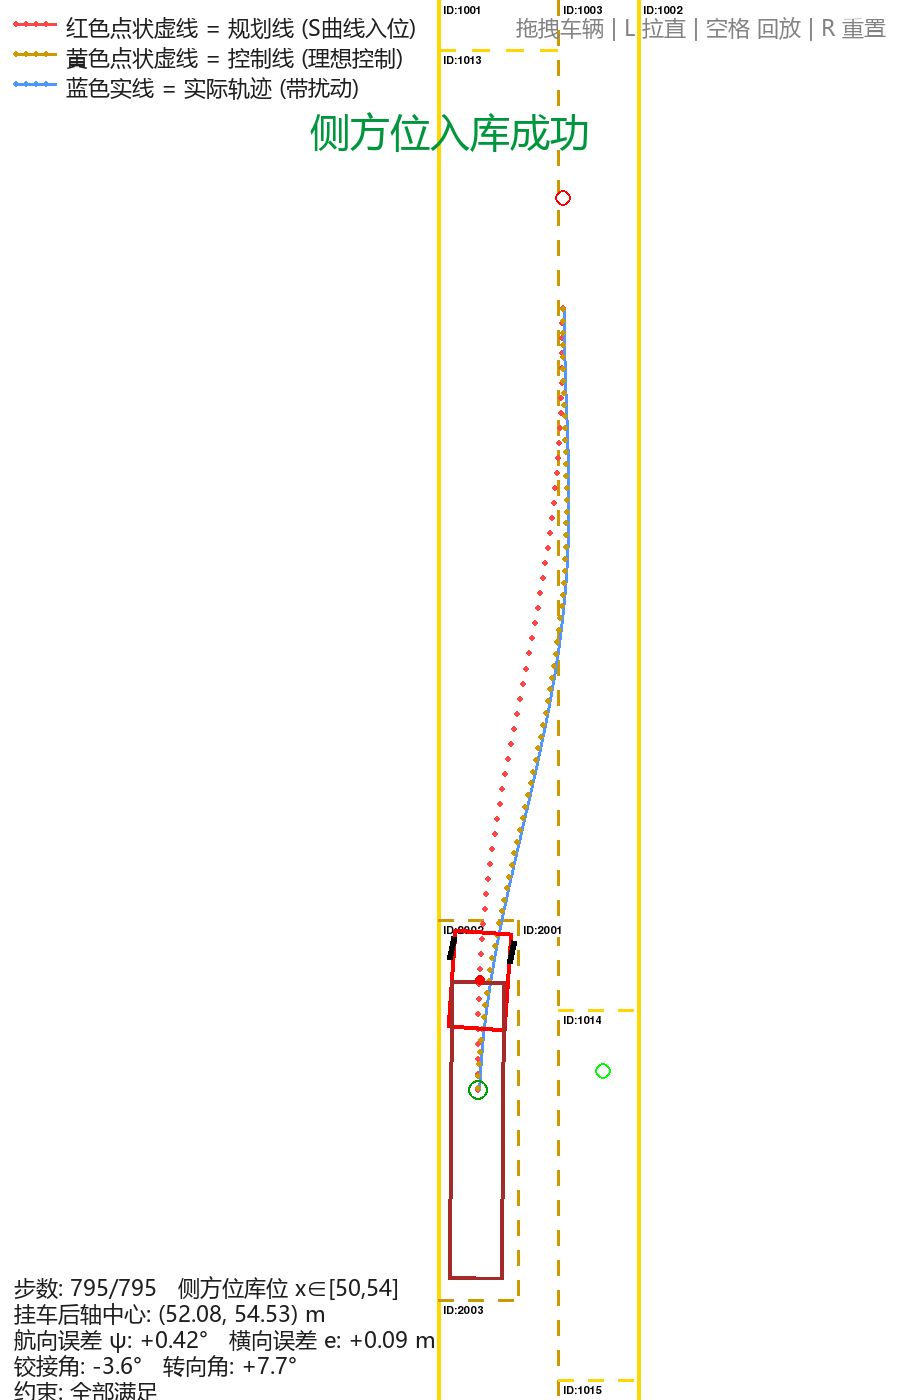
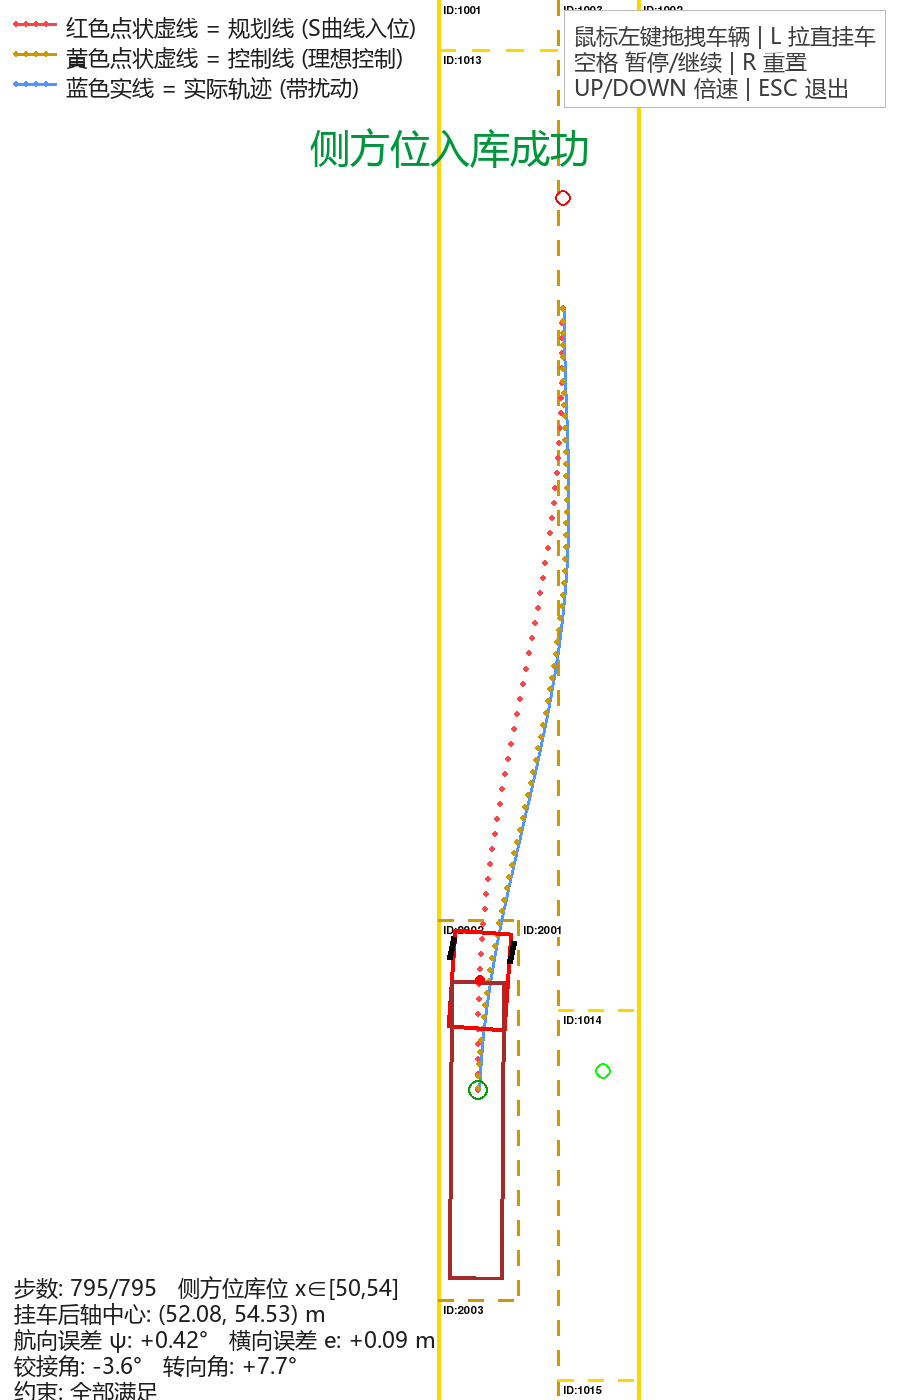
窗口 UI: 常驻快捷键说明 + Makefile 一键启动
- 右上角常驻 3 行快捷键说明 (浅底框, 不遮挡场景)
- 手动位姿/完成横幅下移, 避免与说明重叠
- Makefile: run / run-back / headless / test 四个入口

Changed region(s): [[0.3422, 0.0, 0.9956, 0.1229]]

diff --git a/another_solve/parking_three_lines.py b/another_solve/parking_three_lines.py
@@ -291,6 +291,28 @@ def point_on_truck(truck, wx, wy):
                    tr_len / 2 + 0.3, truck.trailerWidth / 2 + 0.3)
 
 
+HELP_LINES = (
+    "鼠标左键拖拽车辆 | L 拉直挂车",
+    "空格 暂停/继续 | R 重置",
+    "UP/DOWN 倍速 | ESC 退出",
+)
+
+
+def draw_help(screen, font_small, view_w, view_h):
+    """右上角常驻快捷键说明 (浅底框, 保证文字不被场景标线干扰)"""
+    surfs = [font_small.render(t, True, (60, 60, 60)) for t in HELP_LINES]
+    pad, lh = 10, 26
+    w = max(s.get_width() for s in surfs) + 2 * pad
+    h = lh * len(surfs) + 2 * pad
+    x, y = view_w - w - 14, 10
+    box = pygame.Surface((w, h), pygame.SRCALPHA)
+    box.fill((255, 255, 255, 250))
+    pygame.draw.rect(box, (185, 185, 185), box.get_rect(), 1)
+    screen.blit(box, (x, y))
+    for i, surf in enumerate(surfs):
+        screen.blit(surf, (x + pad, y + pad + i * lh))
+
+
 WORLD_W_PX = int(80 * SCALE)    # 世界画布: x 0..80m
 WORLD_H_PX = int(80 * SCALE)    # y 0..80m
 
@@ -374,18 +396,17 @@ def render_frame(screen, runs, idx, road, font_small, font_big, override=None, c
         screen.blit(surf, (14, view_h - 24 - (len(lines) - 1 - i) * 26))
 
     # 操作提示 (右上角)
-    hint = font_small.render("拖拽车辆 | L 拉直 | 空格 回放 | R 重置", True, (130, 130, 130))
-    screen.blit(hint, (view_w - hint.get_width() - 14, 12))
+    draw_help(screen, font_small, view_w, view_h)
 
     if manual:
         surf = font_small.render("手动位姿 (空格继续回放 / R 重置)", True, (70, 90, 170))
-        screen.blit(surf, (view_w // 2 - surf.get_width() // 2, 104))
+        screen.blit(surf, (view_w // 2 - surf.get_width() // 2, 120))
     elif done:
         status = "入库成功" if runs['actual']['success'] else "未成功停入"
         color = (0, 150, 60) if runs['actual']['success'] else (
             (190, 130, 0) if not cur_bad else (220, 40, 40))
         surf = font_big.render(status, True, color)
-        screen.blit(surf, (view_w // 2 - surf.get_width() // 2, 104))
+        screen.blit(surf, (view_w // 2 - surf.get_width() // 2, 120))
 
 
 def ensure_display():

diff --git a/another_solve/parking_parallel.py b/another_solve/parking_parallel.py
@@ -25,7 +25,7 @@ from map.geometry_line import GeometryLine
 from another_solve.parking_three_lines import (
     ParkingController, x_plan_at, local_psi_ref,
     draw_dotted, draw_solid, load_font, compute_camera,
-    truck_from_state, screen_to_world, point_on_truck,
+    truck_from_state, screen_to_world, point_on_truck, draw_help,
     PLAN_COLOR, CTRL_COLOR, ACTUAL_COLOR,
     MAX_STEPS, V_REVERSE, NOISE_STD, ACTUAL_SEED, STEER_RATE, corners_in_slot,
 )
@@ -226,18 +226,17 @@ def render_frame(screen, runs, idx, road, font_small, font_big, override=None, c
                     (14, view_h - 24 - (len(lines) - 1 - i) * 26))
 
     # 操作提示 (右上角)
-    hint = font_small.render("拖拽车辆 | L 拉直 | 空格 回放 | R 重置", True, (130, 130, 130))
-    screen.blit(hint, (view_w - hint.get_width() - 14, 12))
+    draw_help(screen, font_small, view_w, view_h)
 
     if manual:
         surf = font_small.render("手动位姿 (空格继续回放 / R 重置)", True, (70, 90, 170))
-        screen.blit(surf, (view_w // 2 - surf.get_width() // 2, 104))
+        screen.blit(surf, (view_w // 2 - surf.get_width() // 2, 120))
     elif done:
         status = "侧方位入库成功" if runs['actual']['success'] else "未成功停入"
         color = (0, 150, 60) if runs['actual']['success'] else (
             (190, 130, 0) if not cur_bad else (220, 40, 40))
         surf = font_big.render(status, True, color)
-        screen.blit(surf, (view_w // 2 - surf.get_width() // 2, 104))
+        screen.blit(surf, (view_w // 2 - surf.get_width() // 2, 120))
 
 
 def ensure_display():
